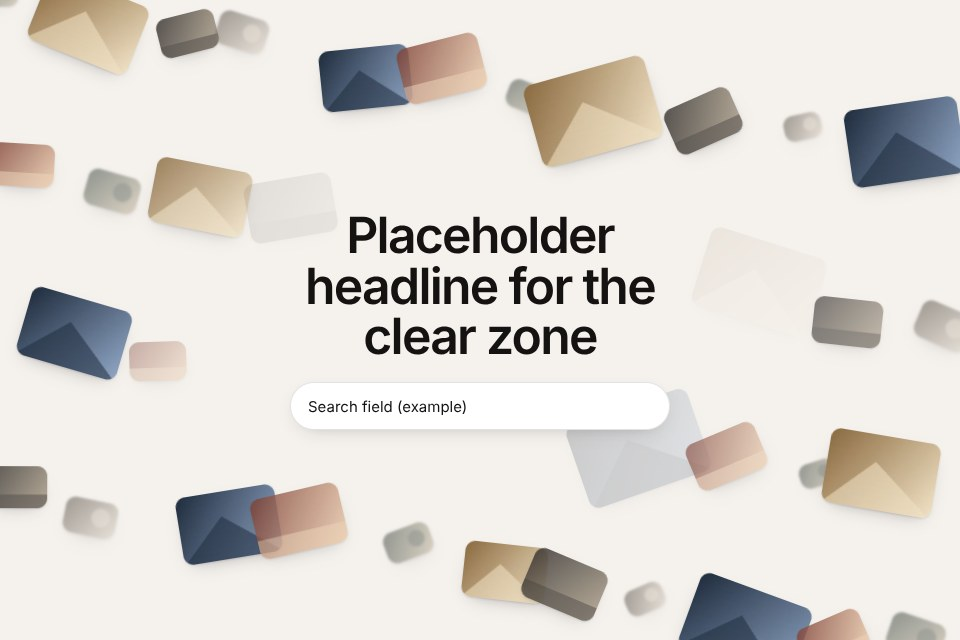
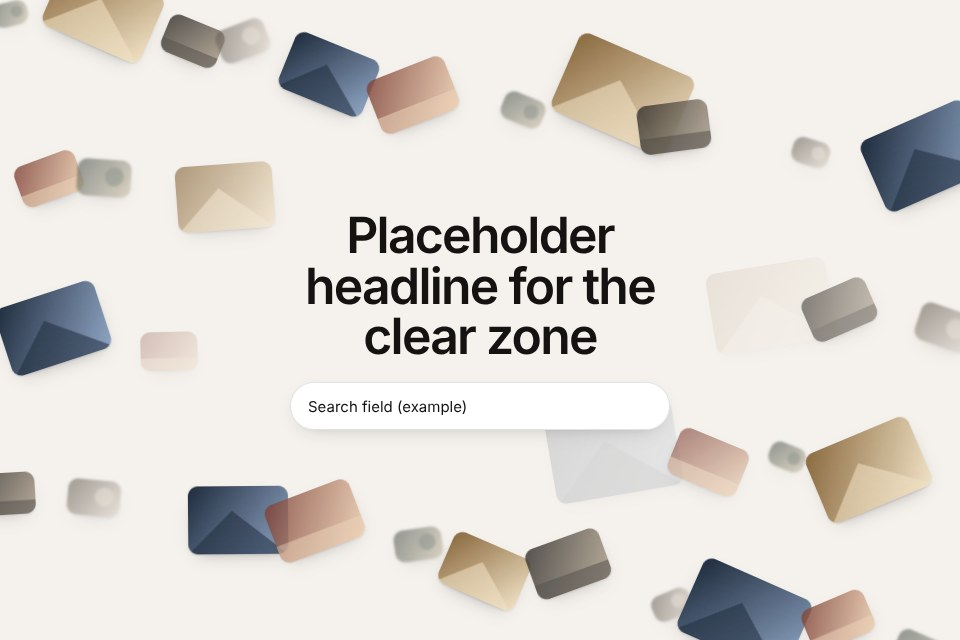
[ara kayıt] README effects and recipes section; motion tags; fresh screenshots
Claude-Session: https://claude.ai/code/session_01QRuffggixVJJAW2e1kutrK

diff --git a/README.md b/README.md
@@ -43,7 +43,11 @@ The detector runs fully on web pages, app screens, mobile web and email HTML. Lo
 
 ## Styles
 
-Name a style and the skill loads it on top of the domain pack: `styles/retro-pixel` and `styles/ascii-text-art` (with a dependency-free demo) are complete; swiss-international, editorial-serif, brutalist, neo-brutalism, y2k-chrome, glass-aurora, bento, terminal-dev, memphis, japanese-minimal, organic-earthy, luxury-fashion, data-dense, claymorphism, risograph-print, playful-kids and zine-punk, blueprint-mono, pantry-bold and pop-ritual are early packs. Each pack lists its slop versions, so "retro pixel" done lazily is caught too.
+Name a style and the skill loads it on top of the domain pack: `styles/retro-pixel` and `styles/ascii-text-art` (with a dependency-free demo) are complete; swiss-international and editorial-serif have a first full pass; brutalist, neo-brutalism, y2k-chrome, glass-aurora, bento, terminal-dev, memphis, japanese-minimal, organic-earthy, luxury-fashion, data-dense, claymorphism, risograph-print, playful-kids and zine-punk, blueprint-mono, pantry-bold and pop-ritual are early packs. Each pack lists its slop versions, so "retro pixel" done lazily is caught too.
+
+## Effects and recipes
+
+`skills/unslopslop/effects/` holds 25 hand-built texture, light and glass effects (grain, ribbed glass, halftone, light ribbon, dot lens, card drift and more); `skills/unslopslop/recipes/` holds measured interaction and motion recipes (stretch-and-settle selection, morphing icons, a mark with a hidden turn, a letter window, a product film told by commands and more). Each is one self-contained HTML demo with its timings and a slop warning.
 
 ## How it thinks
 

diff --git a/inspiration/README.md b/inspiration/README.md
@@ -25,7 +25,7 @@ It writes `inspiration/<date>-<slug>/notes.md` (fonts, palette by area, declared
 | `style:` | any folder in `skills/unslopslop/styles/` |
 | `mood:` | calm, exact, playful, loud, warm, technical, luxurious |
 | `palette:` | the combination in words, e.g. `ink+bone+cobalt` |
-| `motion:` | none, one-demo, scroll-story, micro-only, ambient-slow |
+| `motion:` | none, one-demo, scroll-story, micro-only, ambient-slow, brand-film, product-film |
 | `type:` | serif-display, grotesk, mono-ids, bitmap |
 
 ## Rules
